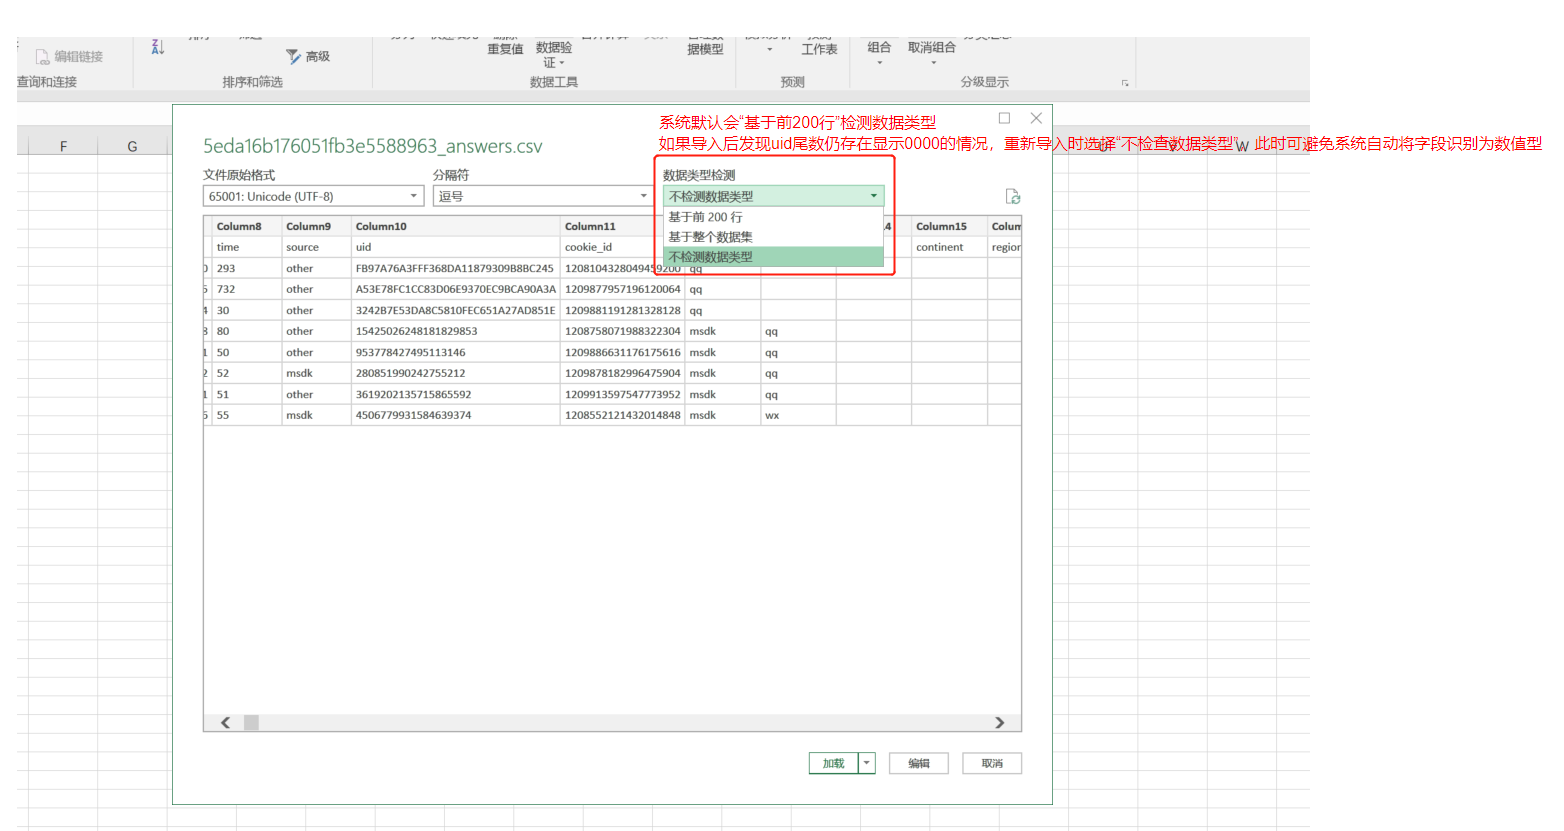
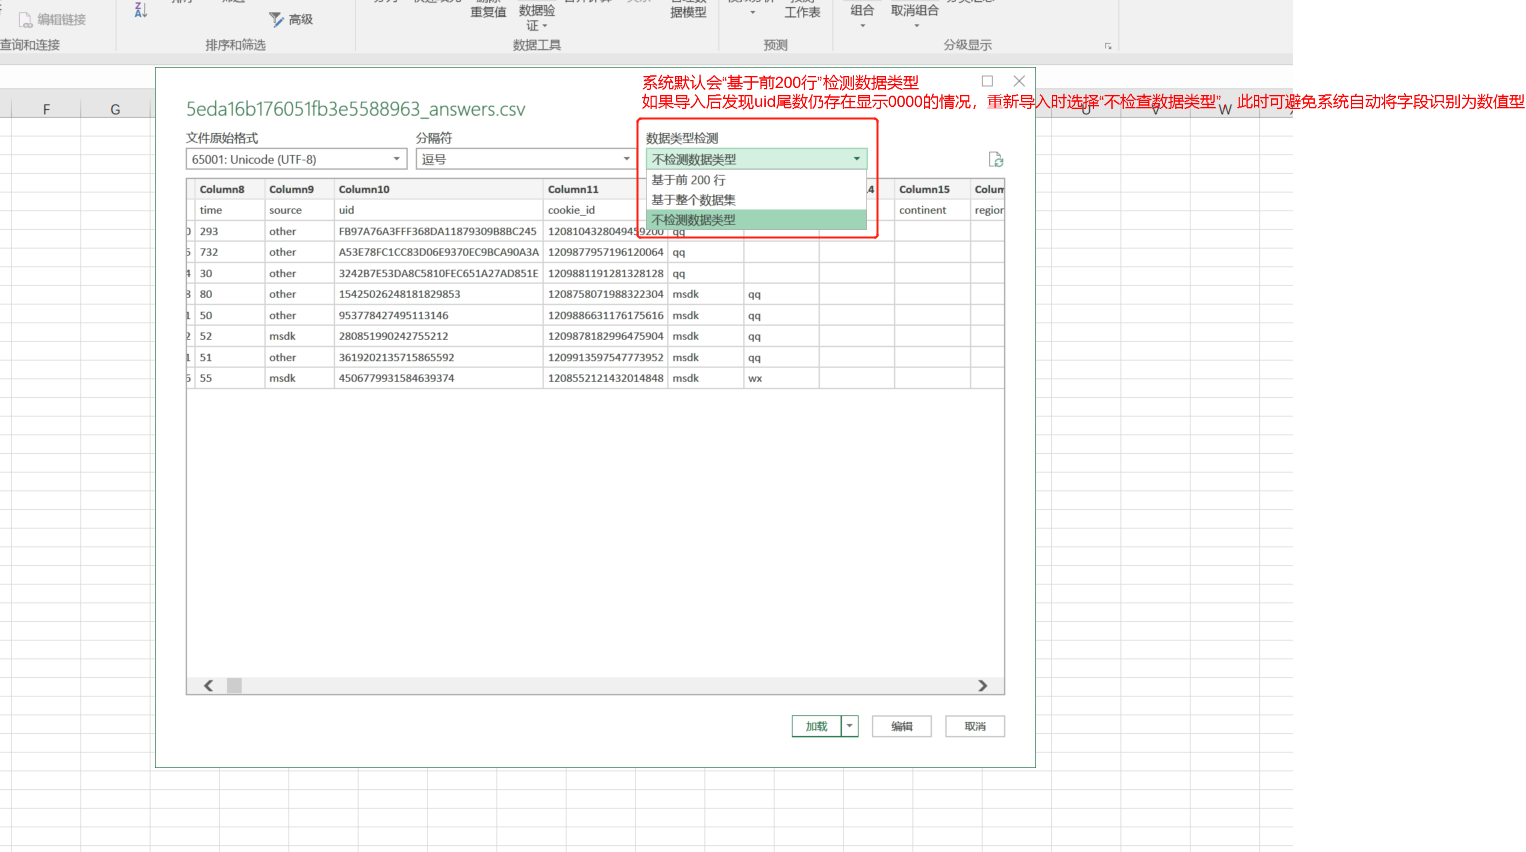
GitBook: [master] 71 pages and 3 assets modified

diff --git a/chang-jian-wen-ti/uid-wu-fa-xian-shi-wan-zheng-wen-ti.md b/chang-jian-wen-ti/uid-wu-fa-xian-shi-wan-zheng-wen-ti.md
@@ -1,0 +1,59 @@
+# uid无法显示完整问题
+
+### 导出的csv文件，直接使用excel打开后，uid显示成科学计数法怎么办？
+
+直接使用excel打开csv文件可能会导致所收集的手机号码、uid等长数字显示错乱，如显示为科学计数法，查看时尾数显示为0000。这是由于excel自动将长数字串识别为数字格式，而非文本格式导致的。此时可将csv文件重新导入到excel，或使用SPSS软件打开csv文件，成功打开后，uid可显示为完整的文本内容。              
+
+![uid&#x5217;&#x663E;&#x793A;&#x4E3A;&#x79D1;&#x5B66;&#x8BA1;&#x6570;&#x6CD5;](../.gitbook/assets/image%20%2846%29.png)
+
+### EXCEL导入csv文件操作步骤
+
+**【STEP 1】创建EXCEL文档**
+
+创建一个Excel文档（格式可以为 xls 或 xlsx 都可以），用于存放导入的目标数据。
+
+![&#x65B0;&#x5EFA;&#x7A7A;&#x767D;&#x6587;&#x6863;](../.gitbook/assets/image%20%2819%29.png)
+
+**【STEP 2】选择自文本导入**
+
+鼠标选择第一个单元格（第一行A列的单元格），选择EXCEL文档中的“数据”-“自文本”，在弹窗中选择需要查看的csv文件（csv文件需提前解压到文件夹），开始导入。
+
+![csv&#x6587;&#x4EF6;&#x5BFC;&#x5165;](../.gitbook/assets/image%20%28346%29.png)
+
+### 【STEP 3】导入设置
+
+不同的excel版本导入时会显示不同的导入设置，大家可按照下方说明查看不同的excel版本的操作。
+
+{% hint style="success" %}
+#### EXCEL 2013
+
+1. 新建excel文件后，点击“数据”-“从文本/CSV”，此时弹窗“在文本导入向导”弹窗。
+2. 第1步，选择使用“分隔符号”，勾选“数据包含标题”，点击“下一步”。
+3. 第2步，选择分隔符为“逗号”。
+4. 第3步，在下方“数据预览”中鼠标点选第一列id后，按住键盘的shift不放，鼠标横拽至最后一列，点选最后一列，放开shift键，此时已全选所有列；全选后，在列数据格式中选择“文本”，点击完成。
+{% endhint %}
+
+![&#x9009;&#x62E9;&#x4F7F;&#x7528;&#x201C;&#x5206;&#x9694;&#x7B26;&#x53F7;&#x201D;&#xFF0C;&#x52FE;&#x9009;&#x201C;&#x6570;&#x636E;&#x5305;&#x542B;&#x6807;&#x9898;&#x201D;](../.gitbook/assets/image%20%28185%29.png)
+
+![&#x9009;&#x62E9;&#x5206;&#x9694;&#x7B26;&#x4E3A;&#x201C;&#x9017;&#x53F7;&#x201D;](../.gitbook/assets/image%20%28278%29.png)
+
+在下方“数据预览”中鼠标点选第一列id后，按住键盘的shift不放，鼠标横拽至最后一列，点选最后一列，放开shift键，此时已全选所有列；全选后，在列数据格式中选择“文本”，点击完成。
+
+![&#x5168;&#x9009;&#x6570;&#x636E;&#x5217;&#xFF0C;&#x5E76;&#x9009;&#x62E9;&#x6570;&#x636E;&#x683C;&#x5F0F;&#x4E3A;&#x201C;&#x6587;&#x672C;&#x201D;](../.gitbook/assets/image%20%28217%29.png)
+
+{% hint style="success" %}
+#### EXCEL 2016/2019
+
+1. 新建excel文件后，点击“数据”-“从文本/CSV”，系统显示导入设置弹窗。
+2. 分隔符选择“**逗号**”，数据类型检测选择“**不检测数据类型**”，点击编辑，进入下一步。
+3. 在弹出的**Power Query编辑器**中选中所有列，点击“开始”-数据类型选择“文本”后，点击上方工具栏中的“关闭并上载”即导入完成。
+{% endhint %}
+
+![&#x5206;&#x9694;&#x7B26;&#x9009;&#x62E9;&#x201C;&#x9017;&#x53F7;&#x201D;&#xFF0C;&#x6570;&#x636E;&#x7C7B;&#x578B;&#x68C0;&#x6D4B;&#x9009;&#x62E9;&#x201C;&#x4E0D;&#x68C0;&#x6D4B;&#x6570;&#x636E;&#x7C7B;&#x578B;&#x201D;](../.gitbook/assets/image%20%28491%29.png)
+
+![&#x9009;&#x62E9;&#x6240;&#x6709;&#x5217;&#x540E;&#x8BBE;&#x7F6E;&#x6570;&#x636E;&#x7C7B;&#x578B;&#x4E3A;&#x201C;&#x6587;&#x672C;&#x201D;](../.gitbook/assets/image%20%2834%29.png)
+
+
+
+
+

diff --git a/SUMMARY.md b/SUMMARY.md
@@ -67,5 +67,7 @@
   * [参数传递接口（不校验模式）](api-wen-dang/can-shu-chuan-di-jie-kou-bu-xiao-yan-mo-shi.md)
   * [登录态回调接口](api-wen-dang/deng-lu-tai-hui-tiao-jie-kou.md)
   * [开放接口](api-wen-dang/kai-fang-jie-kou.md)
+* [常见问题](chang-jian-wen-ti/README.md)
+  * [uid无法显示完整问题](chang-jian-wen-ti/uid-wu-fa-xian-shi-wan-zheng-wen-ti.md)
 * [版本记录](ban-ben-geng-xin.md)
 

diff --git a/cao-zuo-zhi-yin/xia-zai-shu-ju/dao-chu-da-ti-bian-ma.md b/cao-zuo-zhi-yin/xia-zai-shu-ju/dao-chu-da-ti-bian-ma.md
@@ -60,7 +60,7 @@
 4. 如果导入后，仍发现uid列尾数存在显示为0000的情况，可重新导入，此时弹窗中数据类型校验选择“不检查数据类型”
 {% endhint %}
 
-![](../../.gitbook/assets/image%20%28492%29.png)
+![](../../.gitbook/assets/image%20%28493%29.png)
 
 {% hint style="success" %}
 #### EXCEL 2019
